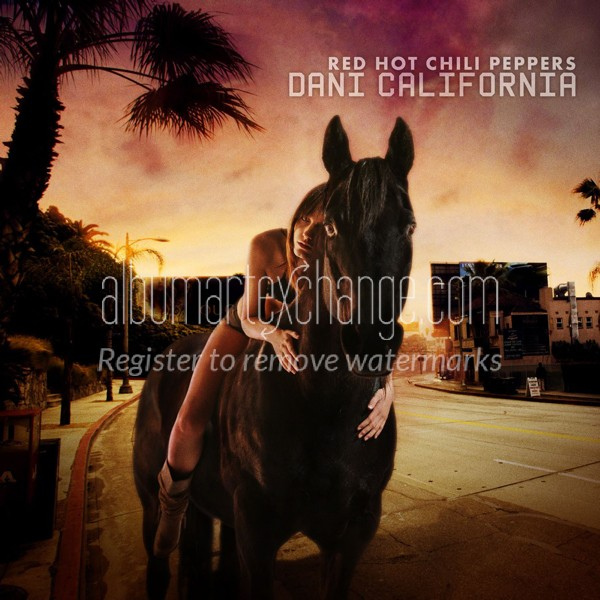
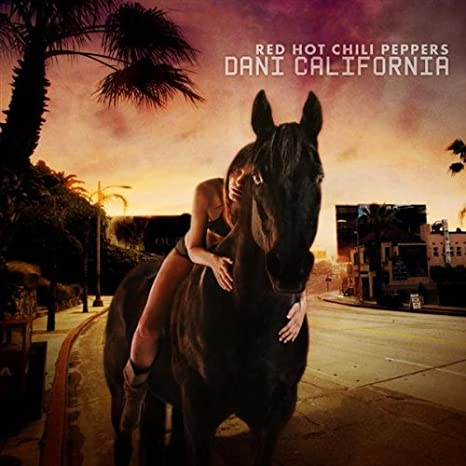
added album art to art div

diff --git a/assignment-07/index.html b/assignment-07/index.html
@@ -8,19 +8,29 @@
 
     <title>Tribute to Dani California Because it's a Bop and I Just Remembered it</title>
 
-    <div> id="art" class="container">
+    <div id="art" class="container">
+      <h1>Art</h1>
+      <iframe src="./images/album-art.jpg" width="200" height="200"></iframe>
+      <iframe src="./images/album-art-02.jpg" width="200" height="200"></iframe>
     </div>
 
-    <div> id="audio" class="container">
+    <div id="audio" class="container">
+      <h1>Audio</h1>
     </div>
 
-    <div> id="copyright" class="container">
+    <div id="video" class="container">
+      <h1>Video</h1>
     </div>
 
-    <div> id="lyrics" class="container">
+    <div id="lyrics" class="container lyrics">
+      <h1>Lyrics</h1>
     </div>
 
-    <div> id="video" class="container">
+    <div id="copyright" class="container">
+      <h1>Copyright</h1>
+      <p>
+        I do not own any of the material provided. I just made the site for a school project.
+      </p>
     </div>
 
     <style>
